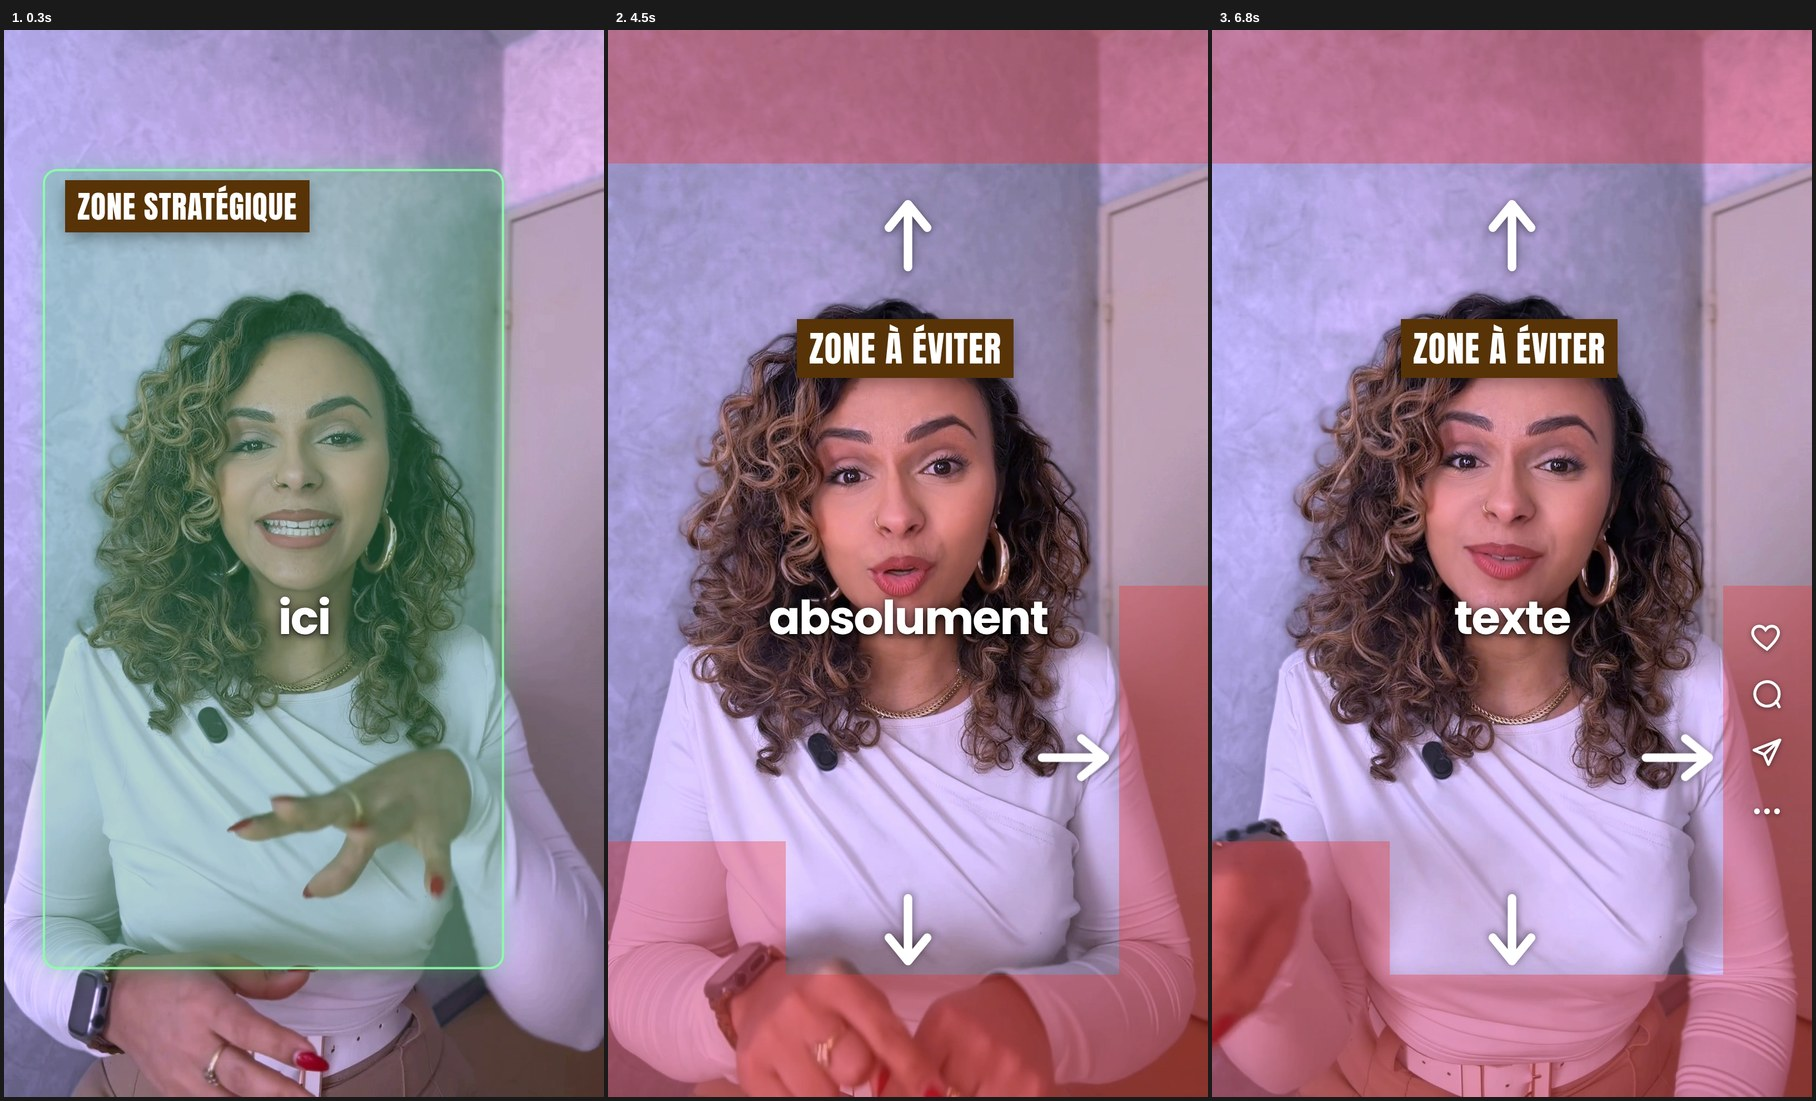
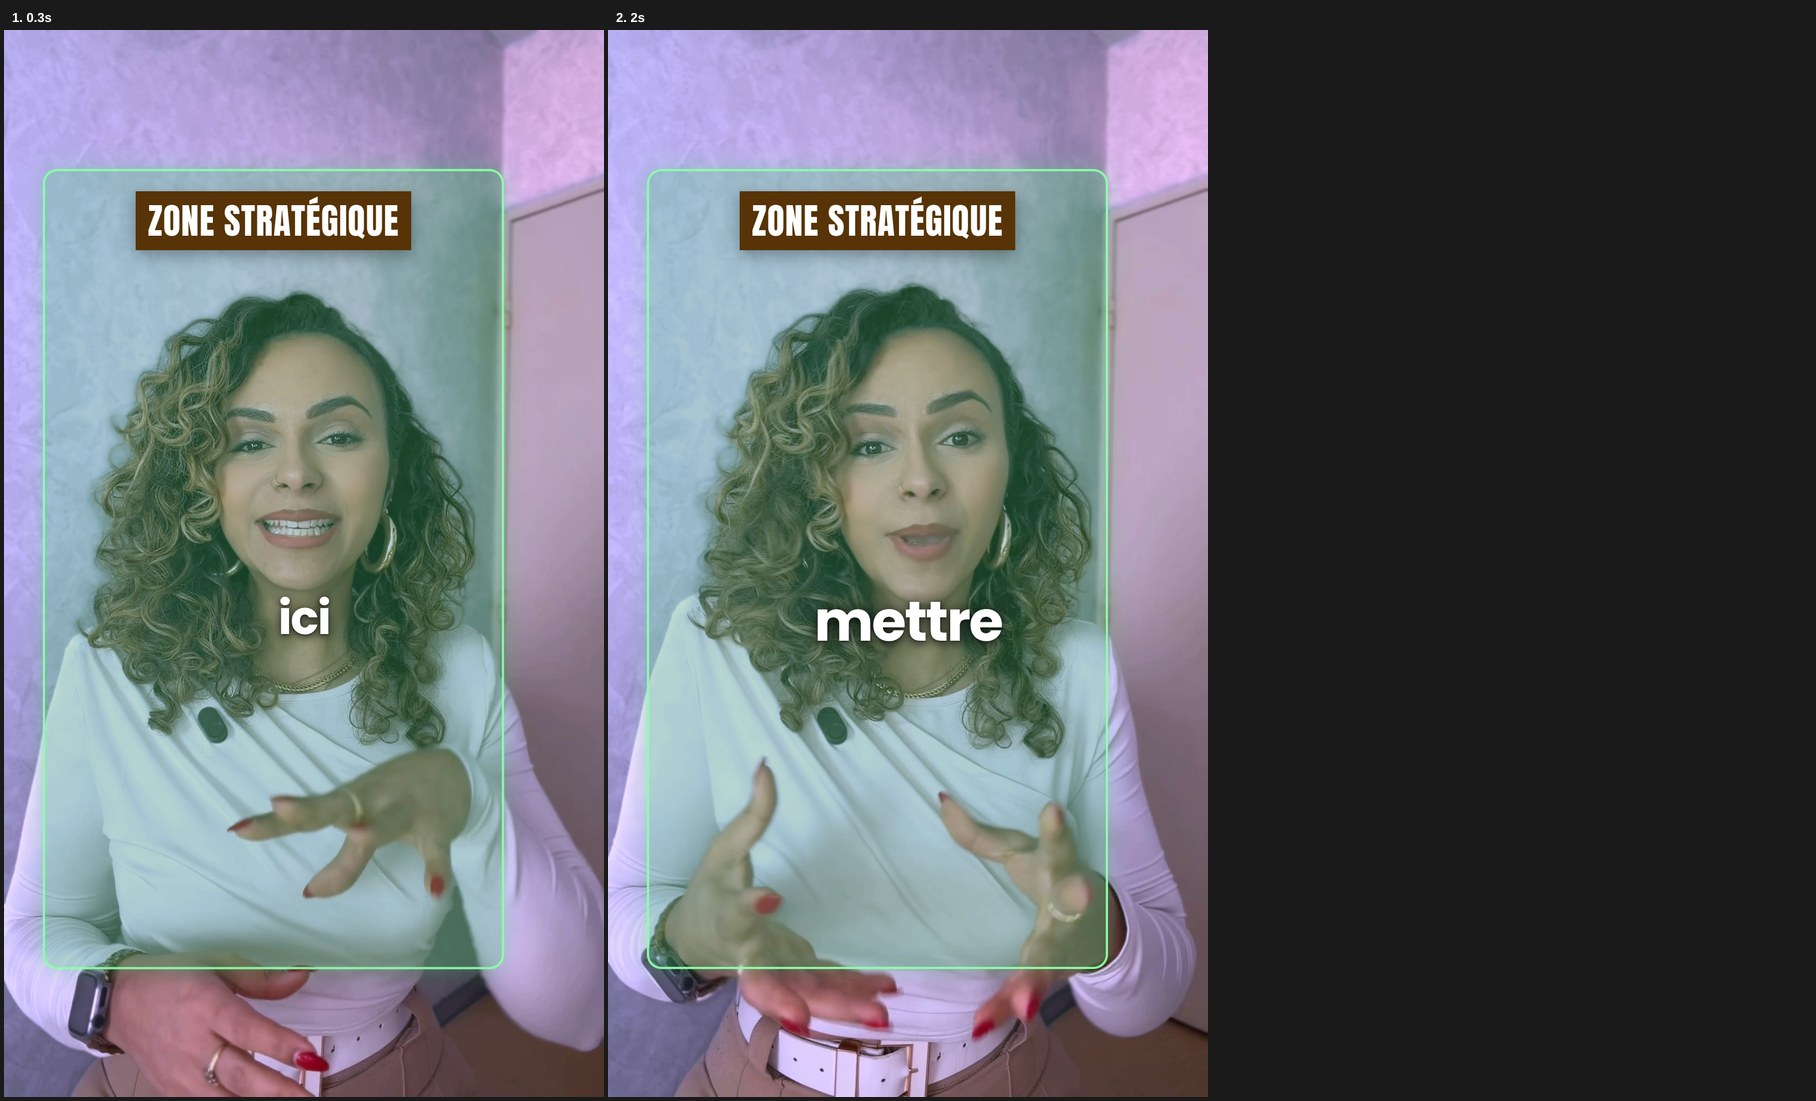
zone v3: strategic-zone label centred
Claude-Session: https://claude.ai/code/session_019pwbzbkUo8jfmpgWNgx2Yp

diff --git a/reels/zone/index.html b/reels/zone/index.html
@@ -66,7 +66,7 @@ html,body{width:1080px;height:1920px;overflow:hidden;background:#000}
   <div id="stage"><video id="bgv" class="full" src="assets/aroll.mp4" muted playsinline data-start="0" data-media-start="0" data-duration="26.469" data-track-index="0"></video>
 <div id="eyeG"><div id="zEye" class="zone g" style="left:110px;top:717px;width:830px;height:110px"></div><div id="eyeLine" style="top:772px"></div><div id="lEye" class="lbl" style="left:110px;top:622px;font-size:48px">LIGNE DES YEUX</div></div></div>
 <div id="zSafe" class="zone g" style="left:70px;top:250px;width:830px;height:1440px"></div>
-<div id="lSafe" class="lbl" style="left:110px;top:270px;font-size:56px">ZONE STRATÉGIQUE</div>
+<div style="position:absolute;left:70px;width:830px;top:290px;z-index:12;text-align:center"><span id="lSafe" class="lbl" style="position:relative;display:inline-block;font-size:64px">ZONE STRATÉGIQUE</span></div>
 <div id="zRed"><div class="zone r" style="left:0;top:0;width:1080px;height:240px"></div><div class="zone r" style="left:0;top:1700px;width:1080px;height:220px"></div><div class="zone r" style="left:0;top:1460px;width:320px;height:240px"></div><div id="zRight" class="zone r" style="left:920px;top:1000px;width:160px;height:700px"></div></div>
 <div id="lRed" class="lbl" style="left:340px;top:520px;font-size:64px">ZONE À ÉVITER</div>
 <div id="arUp" class="arw" style="left:492px;top:300px;transform:rotate(0deg)"><svg viewBox="0 0 100 140" width="96" height="134"><path d="M50 132V24M14 58L50 14l36 44" fill="none" stroke="#fff" stroke-width="16" stroke-linecap="round" stroke-linejoin="round"/></svg></div>
@@ -201,7 +201,7 @@ tl.to('#zSafe',{autoAlpha:0,duration:.2},3.0);
 tl.set('#zSafe',{autoAlpha:0},3.2);
 gsap.set('#lSafe',{autoAlpha:0});
 tl.fromTo('#lSafe',{autoAlpha:0,scale:0.5},{autoAlpha:1,scale:1,duration:0.28,ease:'back.out(1.8)',immediateRender:false},0.000);
-tl.set('#lSafe',{autoAlpha:0},3.200);
+tl.set('#lSafe',{autoAlpha:0},3.2);
 tl.set('#lSafe',{autoAlpha:1,scale:1},0);
 gsap.set('#zRed',{autoAlpha:0});
 tl.fromTo('#zRed',{autoAlpha:0},{autoAlpha:1,duration:0.25,immediateRender:false},3.220);

diff --git a/reels/zone/build.py b/reels/zone/build.py
@@ -78,7 +78,10 @@ def zones():
     html.append('<div id="zSafe" class="zone g" style="left:70px;top:250px;width:830px;height:1440px"></div>')
     tw += [f"tl.fromTo('#zSafe',{{scale:1.08}},{{scale:1,duration:.4,ease:'power3.out',immediateRender:true}},0);",
            "gsap.set('#zSafe',{autoAlpha:1});", "tl.to('#zSafe',{autoAlpha:0,duration:.2},3.0);", "tl.set('#zSafe',{autoAlpha:0},3.2);"]
-    h, t = label('lSafe', 'ZONE STRATÉGIQUE', 110, 270, 0.0, 3.2)
+    # centred in the green zone
+    h = ['<div style="position:absolute;left:70px;width:830px;top:290px;z-index:12;text-align:center">'
+         '<span id="lSafe" class="lbl" style="position:relative;display:inline-block;font-size:64px">ZONE STRATÉGIQUE</span></div>']
+    t = pop('#lSafe', 0.0, .28, .5) + ["tl.set('#lSafe',{autoAlpha:0},3.2);"]
     html += h
     tw += t + ["tl.set('#lSafe',{autoAlpha:1,scale:1},0);"]
     # 2. zones to avoid (top, bottom, Instagram buttons column)
